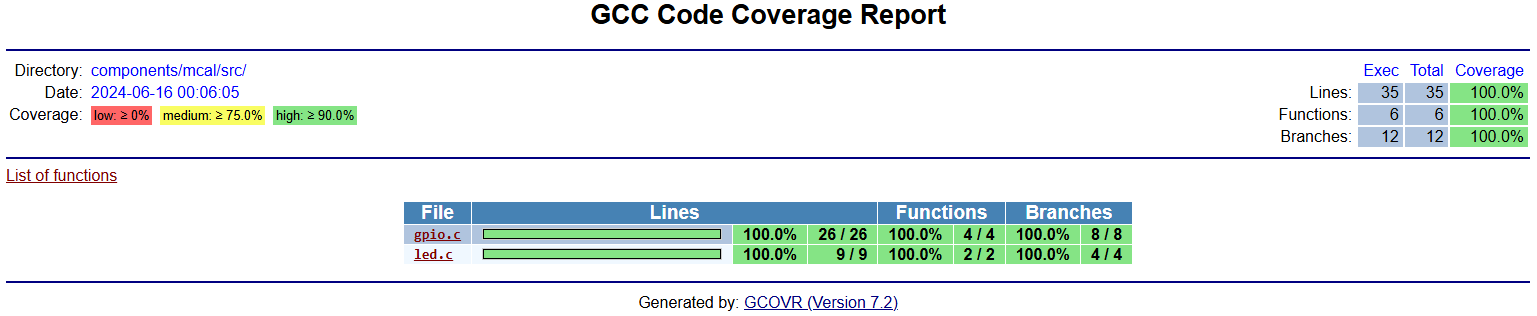
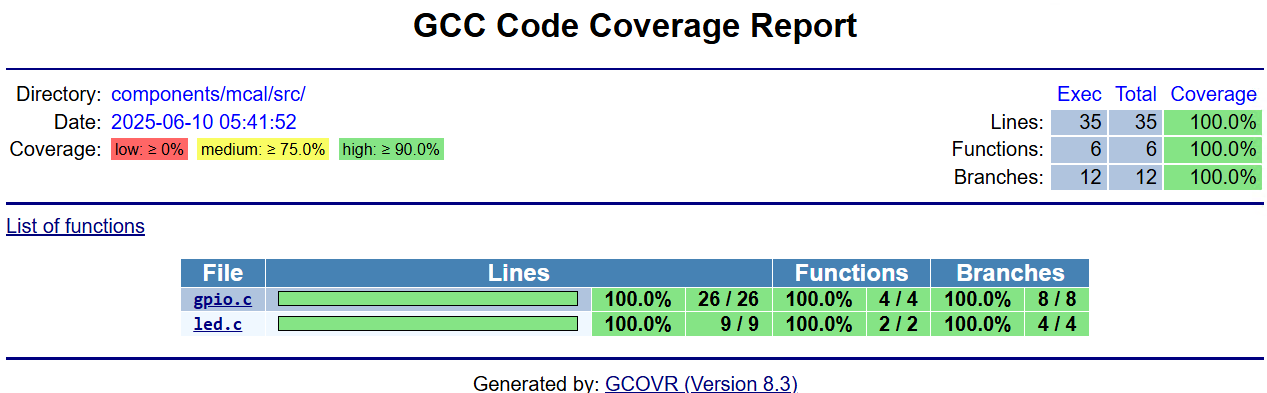
Updated a toolchain

Changed region(s): [[0.0, 0.6266, 1.0, 1.0], [0.0, 0.1424, 1.0, 0.6266], [0.3078, 0.0, 0.6772, 0.1139]]

diff --git a/doc/slow_start.md b/doc/slow_start.md
@@ -43,9 +43,6 @@ The project is structured as described below:
 |                 |        +------led.c
 |                 +------wscript
 |
-+- /conf
-|     +---------/project.yml
-| 
 +- /doc
 |     +---------/imgs
 |     |           +------...
@@ -71,6 +68,8 @@ The project is structured as described below:
 +-README.md
 +-SECURITY
 +-SUPPORT
++-ceedling.cmd
++-project.yml
 +-wsxript
 ```
 
@@ -92,7 +91,7 @@ Each component has its own wscript file.
 
 #### conf
 
-The whole ceedling configuration can be found in the file ```conf/projects.yml``` .
+The whole ceedling configuration can be found in the file ```./project.yml``` .
 
 #### doc
 
@@ -243,59 +242,59 @@ Internal GPIO_XXX calls are checked (line 23) or ignored (line 13) though a mock
 34 #endif // TEST
 ```
 
-### Ceedling configuration ```conf/project.yml```
+### Ceedling configuration ```./project.yml```
 
 In this file are all settings for the ceedling. Here will be described the most important
 parts, for the rest please see a ceedling documentation.
 
 ```yaml
-36 :paths:
-37   :test:
-38     - +:test/**
-39     - -:test/support
-40   :source:
-41     - components/mcal/src/**
-42   :include:
-43     - components/mcal/inc/**
-44   :support:
-45     - test/support
-46   :libraries: []
+35 :paths:
+36   :test:
+37     - +:test/**
+38     - -:test/support
+39   :source:
+40     - components/mcal/src/**
+41   :include:
+42     - components/mcal/inc/**
+43   :support:
+44     - test/support
+45   :libraries: []
 ```
 
-On the line 37-39 is configured where to find test files and support ceedling files, see the marks
-'+' and '-', where minus means to ignore. On the line 40-43 where are source files to test
+On the line 36-38 is configured where to find test files and support ceedling files, see the marks
+'+' and '-', where minus means to ignore. On the line 39-42 where are source files to test
 and their include files. If some library is used, than it may be add on the line 46.
 
-Following lines are needed to get gcov code coverage reports : 75-89 to configure the gcov
-and 114 to include a gcov plugin. On the line 89 is configured which files shall be
+Following lines are needed to get gcov code coverage reports : 74-89 to configure the gcov
+and 113 to include a gcov plugin. On the line 88 is configured which files shall be
 excluded form a coverage report.
 
 ```yaml
-75 # Add -gcov to the plugins list to make sure of the gcov plugin
-76 # You will need to have gcov and gcovr both installed to make it work.
-77 # For more information on these options, see docs in plugins/gcov
-78 :gcov:
-79   :utilities:
-80     - gcovr           # Use gcovr to create the specified reports (default).
-81     #- ReportGenerator # Use ReportGenerator to create the specified reports.
-82   :reports:
-83     - HtmlDetailed
-84   :gcovr:
-85     #:report_include: "^../components/mcal/src.*"
-86     :html_medium_threshold: 75
-87     :html_high_threshold: 90
-88     # Exclude source files that match this filter. (gcovr --exclude).
-89     :report_exclude: "^vendor.*|^build.*|^test.*|^lib.*"
+74 # Add -gcov to the plugins list to make sure of the gcov plugin
+75 # You will need to have gcov and gcovr both installed to make it work.
+76 # For more information on these options, see docs in plugins/gcov
+77 :gcov:
+78   :utilities:
+79     - gcovr           # Use gcovr to create the specified reports (default).
+80     #- ReportGenerator # Use ReportGenerator to create the specified reports.
+81   :reports:
+82     - HtmlDetailed
+83   :gcovr:
+84     #:report_include: "^../components/mcal/src.*"
+85     :html_medium_threshold: 75
+86     :html_high_threshold: 90
+87     # Exclude source files that match this filter. (gcovr --exclude).
+88     :report_exclude: "^vendor.*|^build.*|^test.*|^lib.*"
+89     :print_summary: TRUE
 ```
 
 ```yaml
 108 :plugins:
-109   :load_paths:
-110     - "#{Ceedling.load_path}"
-111   :enabled:
-112     #- stdout_pretty_tests_report
-113     - module_generator
-114     - gcov
+109   :load_paths: []
+110   :enabled:
+111     #- stdout_pretty_tests_report
+112     - module_generator
+113     - gcov
 ```
 
 ### Main script file - setup for ceedling

diff --git a/README.md b/README.md
@@ -10,12 +10,13 @@ This demo shows how to use the ceedling together with a waf build framework on a
 
 |SW Component                                                                                                   |Version                |
 |---------------------------------------------------------------------------------------------------------------|-----------------------|
-|[Ruby](https://developer.hashicorp.com/packer/install?product_intent=packer)                                   | ruby 3.0.4p208        |
-|[Ceedling](https://developer.hashicorp.com/vagrant/install?product_intent=vagrant)                             | 0.31.1                |
-|[Python3](https://developer.hashicorp.com/vagrant/docs/providers/vmware/vagrant-vmware-utility)                | 3.12.4                |
+|[Ruby](https://www.ruby-lang.org/)                                                                             | ruby 3.0.4p208        |
+|[Ceedling](https://github.com/ThrowTheSwitch/Ceedling)                                                         | 1.0.1-fb1ce6c         |
+|[Python3](https://www.python.org/downloads/)                                                                   | 3.12.4                |
+|[pip](https://pypi.org/project/pip/)                                                                           | 25.1.1                |
 |[gcc](https://gcc.gnu.org/) - part of Ruby installation                                                        | 11.2.0                |
-|[gcovr](https://pypi.org/project/gcovr/)                                                                       | 7.2                   |
-|[git](https://git-scm.com/)                                                                                    | 2.45.2                |
+|[gcovr](https://pypi.org/project/gcovr/)                                                                       | 8.3                   |
+|[git](https://git-scm.com/)                                                                                    | 2.49.0.windows.1      |
 
 
 ## Installation
@@ -35,9 +36,10 @@ winget install Git.Git
 winget install RubyInstallerTeam.RubyWithDevKit.3.0
 $env:Path +=';C:\Ruby30-x64\bin\'
 $env:PATH +=';C:\Ruby30-x64\msys64\mingw64\bin'
-$env:PATH +=';C:\Users\vagrant\AppData\Local\Programs\Python\Python312\Scripts\'
-pip install gcovr
-gem install ceedling
+$env:PATH +=";C:\Users\$env:USERNAME\AppData\Local\Programs\Python\Python312\Scripts\"
+python.exe -m pip install --upgrade pip
+pip install gcovr==8.3
+gem install ceedling -v 1.0.1
 ```
 
 ## Quick start
@@ -52,21 +54,32 @@ cd waf
 python ./waf-light configure build
 ```
 
+**NOTE:** The project contains a sub-repository.
+
 ### Build and run unit tests
 
+Modify in a file project.yml a line : 'C:\Users\Docker\AppData\Local\Programs\Python\Python312\Scripts\',
+exchange an user directory "Docker" with a current username.
+
 ```powershell
-python waf/waf configure --ceedling-project-file .\conf\project.yml --ceedling-options "gcov:all utils:gcov"
-python waf/waf build ceedling
+python waf/waf configure --ceedling-options "gcov:all"  --check-c-compiler gcc --check-cxx-compiler g++
+python waf/waf build
+python waf/waf ceedling
+```
+
+The command ceedling can be also called separately
+```
+ceedling.cmd
 ```
 
 By configuring the waf some ceedling options are used:
 
-* ceedling-project-file - specify where to find a ceedling configuration file
 * ceedling-options - specify additional ceedling options; in this case a gcov code coverage reports are enabled
+* check-c-compiler - specify which c compiler(s) shall be tried to test for an availability
+* check-cxx-compiler - specify which c++ compiler(s) shall be tried to test for an availability
 
 The code coverage report can be found in the path ".\build\ceedling\artifacts\gcov\GcovCoverageResults.html" .
 
 ![Code coverage overview (gcov)](./doc/imgs/gcov_summary.png)
 
 For further details click on a specific c file.
-
